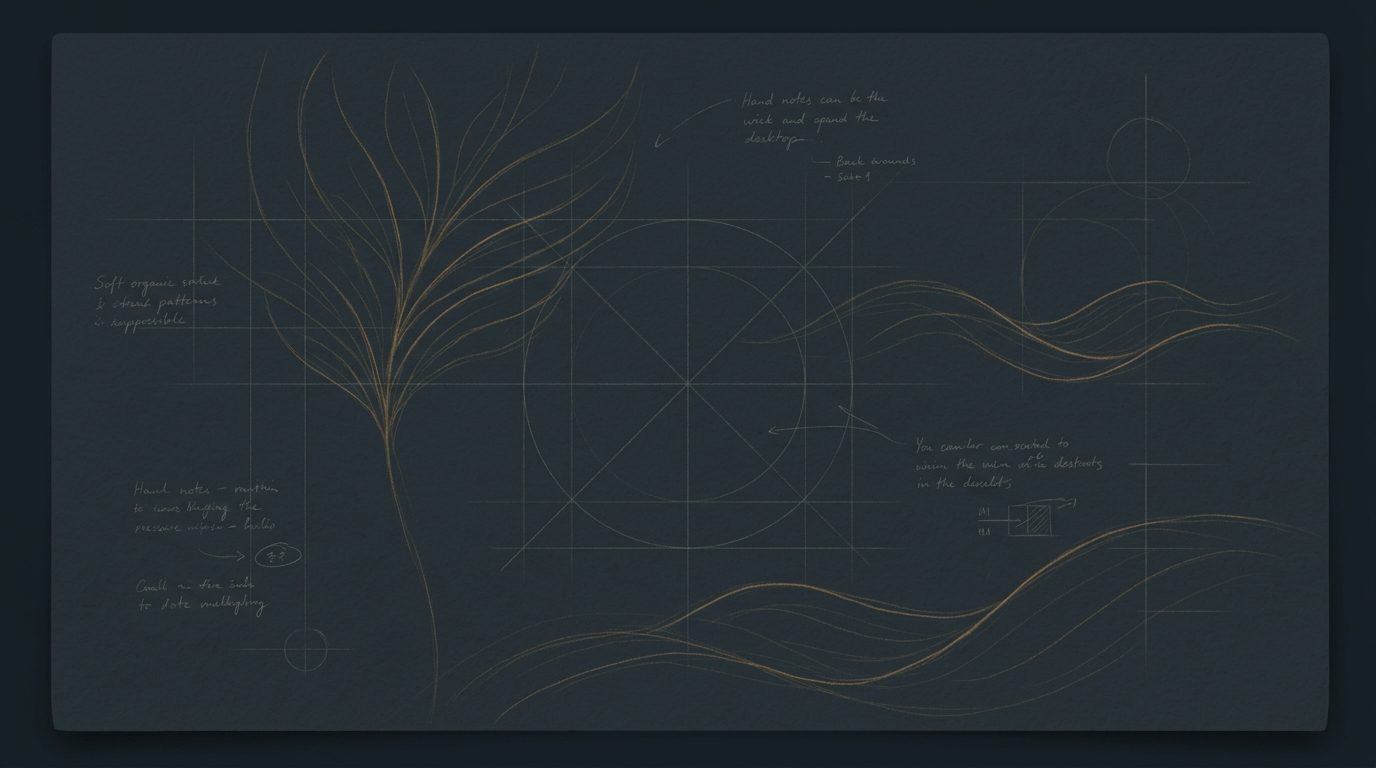
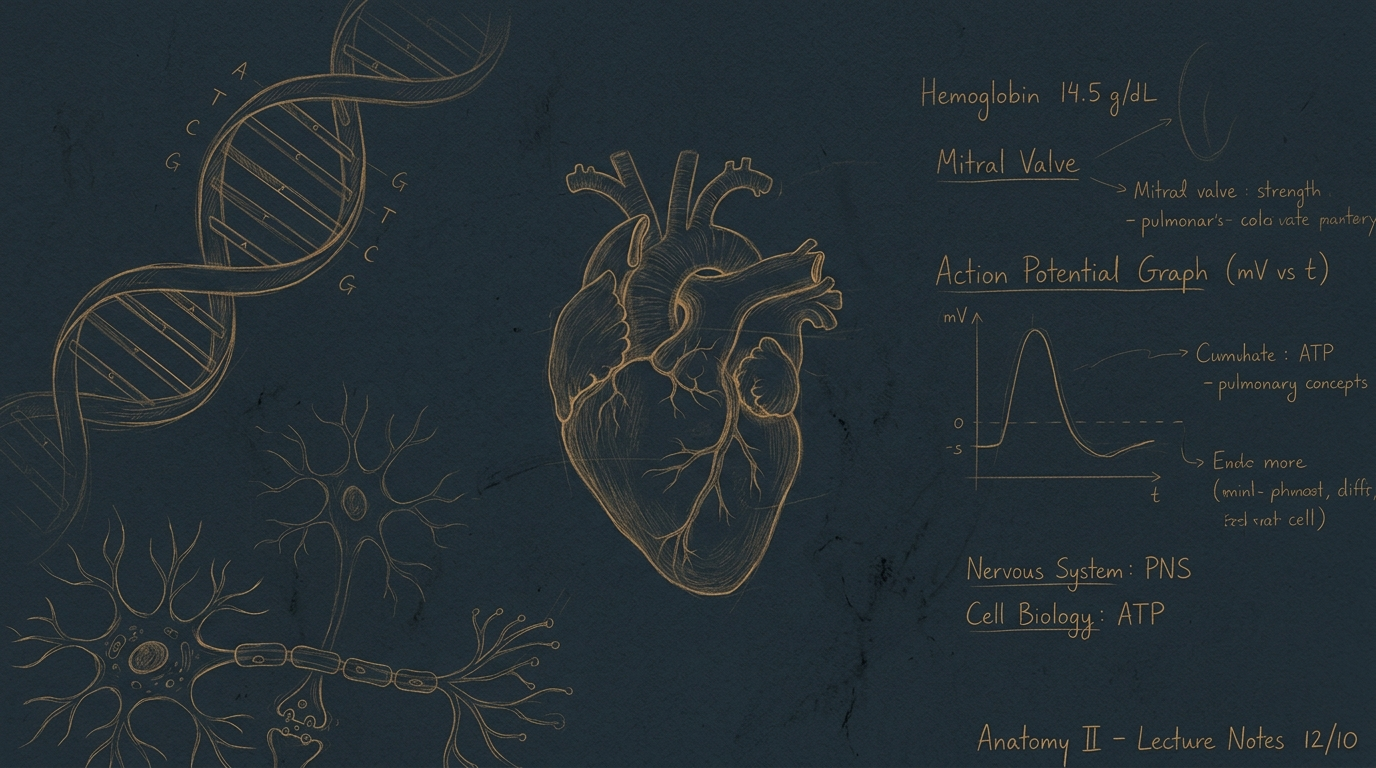
style: improve dark sidebar contrast and update dark background to premium medical drawing

diff --git a/src/components/NavBar.tsx b/src/components/NavBar.tsx
@@ -258,7 +258,7 @@ export default function NavBar() {
   ];
 
   return (
-    <nav className="fixed top-0 left-0 bottom-0 z-40 bg-[#FBF8F3] border-r border-[#EAE3D5] shadow-lg flex flex-col justify-between transition-all duration-300 w-16 md:w-64 py-6">
+    <nav className="fixed top-0 left-0 bottom-0 z-40 bg-[#FBF8F3] dark:bg-[#0A1114] border-r border-[#EAE3D5] dark:border-[#1E2C33] shadow-lg flex flex-col justify-between transition-all duration-300 w-16 md:w-64 py-6">
       
       {/* Brand Header */}
       <div className="px-3 md:px-6">
@@ -280,11 +280,11 @@ export default function NavBar() {
             </svg>
           </div>
           <div className="hidden md:block">
-            <h1 className="text-base font-bold font-['Lora'] text-[#0E3D4D] leading-none">Medicina</h1>
+            <h1 className="text-base font-bold font-['Lora'] text-[#0E3D4D] dark:text-white leading-none">Medicina</h1>
             <span className="text-[10px] font-semibold text-[#B5502B] uppercase tracking-wider">Ciclo 2029</span>
           </div>
         </Link>
-        <div className="h-[1px] bg-[#EAE3D5] my-6" />
+        <div className="h-[1px] bg-[#EAE3D5] dark:bg-[#1E2C33] my-6" />
       </div>
 
       {/* Nav List */}
@@ -298,7 +298,7 @@ export default function NavBar() {
               className={`flex items-center gap-3 px-3 py-3 md:py-2.5 rounded-xl transition-all duration-200 group relative min-h-[44px] ${
                 isActive 
                   ? 'bg-[#0E3D4D] text-white shadow-md shadow-[#0E3D4D]/15' 
-                  : 'text-[#6A7D87] hover:bg-[#F1EFEA] hover:text-[#0E3D4D]'
+                  : 'text-[#6A7D87] dark:text-gray-400 hover:bg-[#F1EFEA] dark:hover:bg-[#15222B] hover:text-[#0E3D4D] dark:hover:text-white'
               }`}
             >
               <div className="flex items-center justify-center w-6 h-6 shrink-0">
@@ -306,7 +306,7 @@ export default function NavBar() {
               </div>
               <span
                 className={`text-xs font-semibold tracking-wide hidden md:block transition-colors ${
-                  isActive ? 'text-white font-bold' : 'text-[#6A7D87] group-hover:text-[#0E3D4D]'
+                  isActive ? 'text-white font-bold' : 'text-[#6A7D87] dark:text-gray-400 group-hover:text-[#0E3D4D] dark:group-hover:text-white'
                 }`}
               >
                 {item.label}
@@ -326,7 +326,7 @@ export default function NavBar() {
         <div className="flex items-center justify-center md:justify-start mb-2 relative group/theme">
           <button
             onClick={toggleTheme}
-            className="flex items-center justify-center w-10 h-10 md:w-full md:px-3 md:py-2 rounded-xl border border-[#EAE3D5] bg-[#F1EFEA] dark:border-[#344854] dark:bg-[#24353F] text-[#6A7D87] hover:text-[#0E3D4D] dark:text-gray-400 dark:hover:text-white transition-all cursor-pointer shadow-sm hover:scale-[1.02] active:scale-[0.98] min-h-[40px]"
+            className="flex items-center justify-center w-10 h-10 md:w-full md:px-3 md:py-2 rounded-xl border border-[#EAE3D5] bg-[#F1EFEA] dark:border-[#1E2C33] dark:bg-[#15222B] text-[#6A7D87] hover:text-[#0E3D4D] dark:text-gray-400 dark:hover:text-white transition-all cursor-pointer shadow-sm hover:scale-[1.02] active:scale-[0.98] min-h-[40px]"
             title="Alternar tema"
           >
             {!mounted ? (
@@ -356,13 +356,13 @@ export default function NavBar() {
             Alternar tema
           </div>
         </div>
-        <div className="h-[1px] bg-[#EAE3D5] my-4" />
+        <div className="h-[1px] bg-[#EAE3D5] dark:bg-[#1E2C33] my-4" />
         <div className="flex items-center gap-3">
           <div className="w-10 h-10 rounded-full bg-[#B5502B]/10 border border-[#B5502B]/30 flex items-center justify-center font-bold text-xs text-[#B5502B] uppercase shadow-inner shrink-0">
             AA
           </div>
           <div className="hidden md:block truncate">
-            <h4 className="text-xs font-bold text-[#0E3D4D] truncate leading-snug">Alice Antunes</h4>
+            <h4 className="text-xs font-bold text-[#0E3D4D] dark:text-white truncate leading-snug">Alice Antunes</h4>
             <span className="text-[10px] text-gray-400 block truncate">Estudante</span>
           </div>
         </div>
